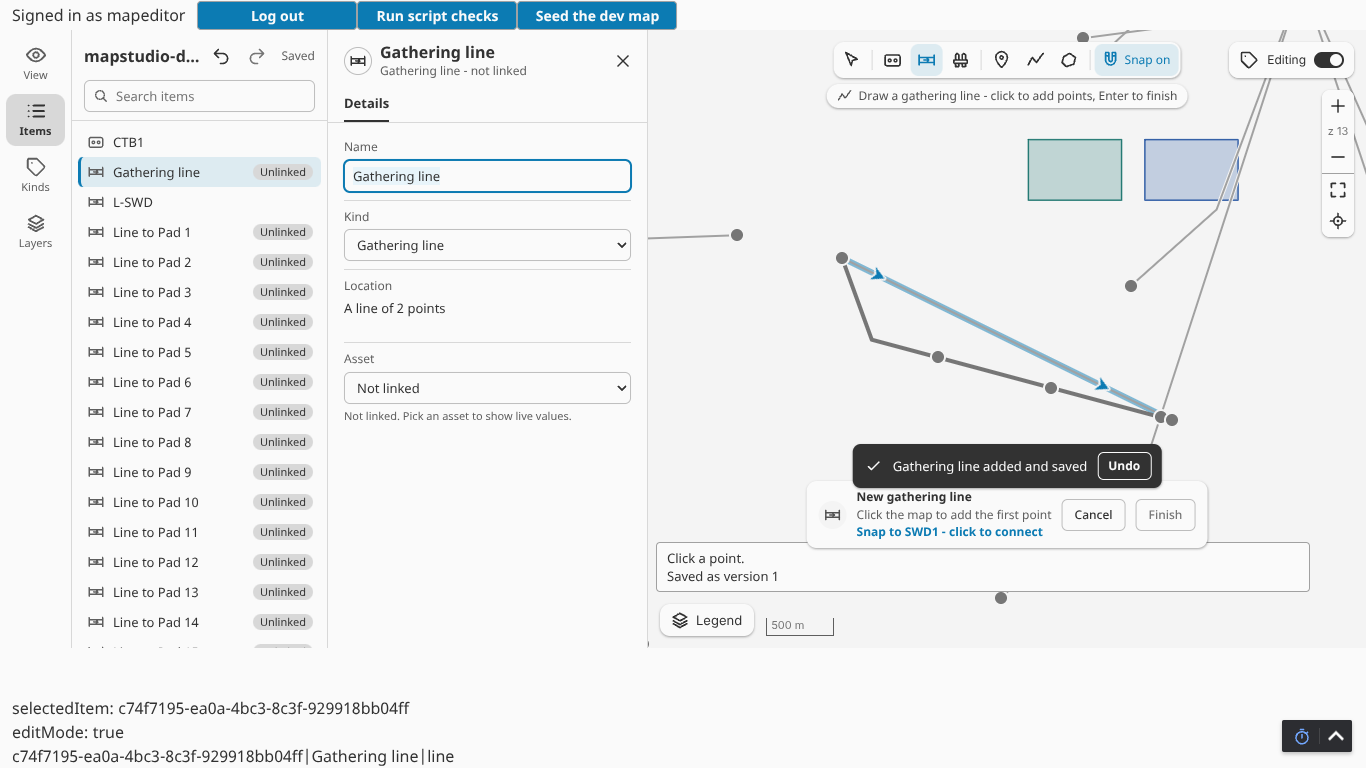
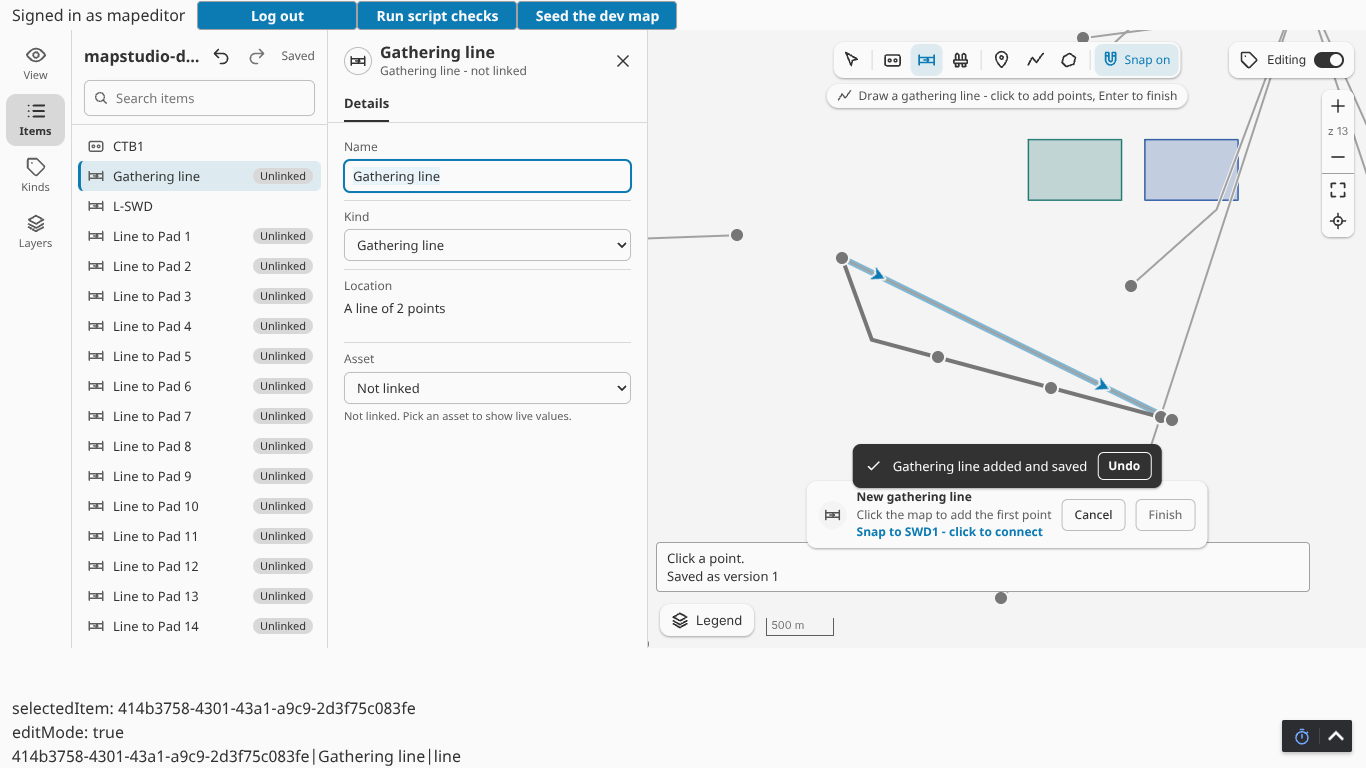
Epic 4 entry 21: the focus leaves the hidden bar; Clear at 32 px; the renders again
As the studio comes on, an element of the View-mode top bar that holds the
focus gives it up, so a key typed after the page's prop turned Edit mode on
cannot open a list behind the hidden bar; the studio spec types a key there
and sees nothing open. The Search items field is 36 px tall so its Clear
keeps the 32 px mouse target inside it, which the spec checks. The
architecture module table names the list's search; E2E_DOCS=1 runs of the
two specs rewrote the Edit-mode renders with the taller field.

Claude-Session: https://claude.ai/code/session_01F9eVq2qqbKx1YxrgoxuWT6

diff --git a/web/typescript/MapStudio.tsx b/web/typescript/MapStudio.tsx
@@ -532,12 +532,19 @@ export class MapStudio extends Component<Props, MapStudioState> {
      * The View-mode top bar while the studio shows (entry 21; DESIGN.md Edit mode, Direction A): the stylesheet hides
      * the search field and the Needs you bar under `mapstudio--editing` (the search is the Items list's there) and the
      * toolbar takes the top row. As the studio comes on, however it came (the switch, the page's prop, the level
-     * arriving, a phone width widening), an open search or Needs you list closes, so nothing is open behind the hidden
-     * bar and nothing comes back open when Edit mode is left; the focus no longer returns to a bar that is hidden.
+     * arriving), an open search or Needs you list closes and the focus leaves the bar, so nothing is open behind the
+     * hidden bar and nothing comes back open when Edit mode is left; the focus no longer returns to a bar that is hidden.
      */
     private applyTopBar(): void {
         const on = this.studioOn();
         if (on && !this.studioWasOn) {
+            // A field or the bar keeping the focus while hidden (the page's prop turned Edit mode on) would take keys
+            // and open its list behind the hidden bar: the focus leaves it first.
+            const active = typeof document !== 'undefined' ? document.activeElement as HTMLElement | null : null;
+            const topbar = this.mapContainer ? this.mapContainer.querySelector('.mapstudio-topbar') : null;
+            if (active && topbar && topbar.contains(active) && typeof active.blur === 'function') {
+                active.blur();
+            }
             if (this.searchControl) {
                 this.searchControl.close();
             }

diff --git a/web/typescript/mapstudio.css b/web/typescript/mapstudio.css
@@ -2514,8 +2514,9 @@
     overflow-wrap: anywhere;
 }
 
-/* The Search items field under the title row (entry 21, DESIGN.md key screen 4): the input's look (`.mapstudio-input`)
-   with the search glyph inside on the left and, while it holds text, Clear on the right. */
+/* The Search items field under the title row (entry 21, DESIGN.md key screen 4): the input's look (`.mapstudio-input`),
+   36 px tall so Clear keeps the 32 px mouse target inside it, with the search glyph inside on the left and, while it
+   holds text, Clear on the right. */
 .mapstudio-list-search {
     position: relative;
     display: flex;
@@ -2533,7 +2534,8 @@
 }
 
 .mapstudio-input.mapstudio-list-search-input {
-    padding: 0 32px 0 31px;
+    height: 36px;
+    padding: 0 36px 0 31px;
 }
 
 .mapstudio-list-search-input::placeholder {
@@ -2545,8 +2547,6 @@
     position: absolute;
     top: 2px;
     right: 2px;
-    width: 28px;
-    height: 28px;
     color: var(--mapstudio-secondary);
 }
 

diff --git a/docs/architecture.md b/docs/architecture.md
@@ -53,10 +53,10 @@ Inside `web/typescript` the component is split by concern (epic 4 entry 1), so a
 | `editing.ts` | The drawing tools: Terra Draw with the point mode (entry 2's Point tool: a click saves a create at once, a drag of the pin saves an update) and the line and polygon modes (entry 4's Line and Area tools and the kind buttons: vertex by vertex, the library's validation hook with its self-intersection check and a vertex floor, its custom snapping callback over the items with the target remembered per vertex, Backspace as the mode's undo, a finish saved at once as one batch with `ends` from the snaps and its drawn copy dropped), Escape |
 | `studio.ts` | The studio's mode, tool, surface and selection model, pure: View or Edit, the tool in hand (Point, Line or Area, with the kind a kind button fixed), the kinds per tool and the kind buttons (the list's first three), the rail's surface, the selected ids, and the mode pill's words; `fromProps` reads `editMode` at mount and the component follows the Edit switch and the prop both ways at level `full` (entry 2) |
 | `drawing.ts` | The drawing in progress, pure (entry 4): the vertices placed so far with the snap target of each, the validation's reason, whether it may finish, the drawing bar's words (the progress, the snap indicator, what it needs, the finish hint), the saved line's `ends` and the toast's words |
-| `studio/` | The studio's React surfaces (entries 2 and 4): `Rail.tsx` (View, Items, Kinds, Layers), `ItemList.tsx` (the docked list with the panel header: the map's name, Undo, Redo, the save status), `PropertiesPanel.tsx` (Details: name, the Kind select, latitude and longitude, the asset picker, each field saved when finished), `DrawToolbar.tsx` (Select, the kind buttons, Point, Line, Area, Snap and the mode pill), `DrawingBar.tsx` (the drawing bar bottom-centre), `Toast.tsx` (the toast with Undo after an add), `ChromeGlyph.tsx` |
+| `studio/` | The studio's React surfaces (entries 2 and 4): `Rail.tsx` (View, Items, Kinds, Layers), `ItemList.tsx` (the docked list with the panel header: the map's name, Undo, Redo, the save status, and the Search items field of entry 21), `PropertiesPanel.tsx` (Details: name, the Kind select, latitude and longitude, the asset picker, each field saved when finished), `DrawToolbar.tsx` (Select, the kind buttons, Point, Line, Area, Snap and the mode pill), `DrawingBar.tsx` (the drawing bar bottom-centre), `Toast.tsx` (the toast with Undo after an add), `ChromeGlyph.tsx` |
 | `EditSwitch.ts` | The Edit switch, a MapLibre control top-right above the zoom card, shown at level `full`; the component writes `editMode` back when it is flipped |
 | `undoStack.ts` | The undo stack, pure: one step per saved edit with the batch, the records before it and the reply's versions; undo and redo build the reverse batch (undo.ts) rebased to each record's current version, and the delegate sends it through the same queue |
-| `itemList.ts` | The item list's rows, pure: every live item by name with its kind glyph and its worst live state as a badge |
+| `itemList.ts` | The item list's rows, pure: every live item by name with its kind glyph, its linked asset's name and its worst live state as a badge; `filterRows`, the Search items field's filter by name, kind name or asset name (entry 21, `search.ts` `fold`) |
 
 The DOM-bound modules take the component as their host (each names the fields and callbacks it reads in a `*Host` interface); the pure modules beside them (`drawing.ts`, `features.ts`, `geometry.ts`, `live.ts`, `markers.ts`, `place.ts`, `startingArea.ts`, `popupPlacement.ts`, `unsaved.ts`, `unsavedSender.ts`, `changes.ts` and the rest) are unit tested in node.
 
